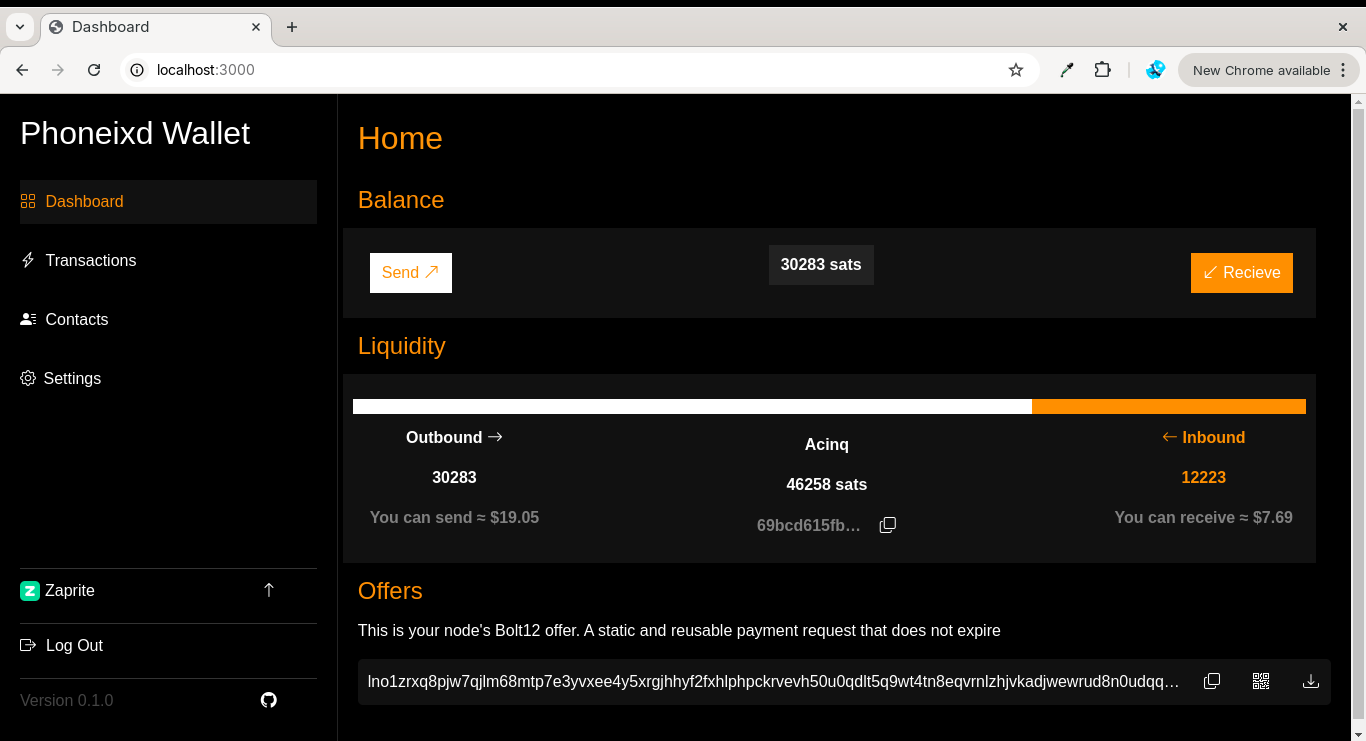
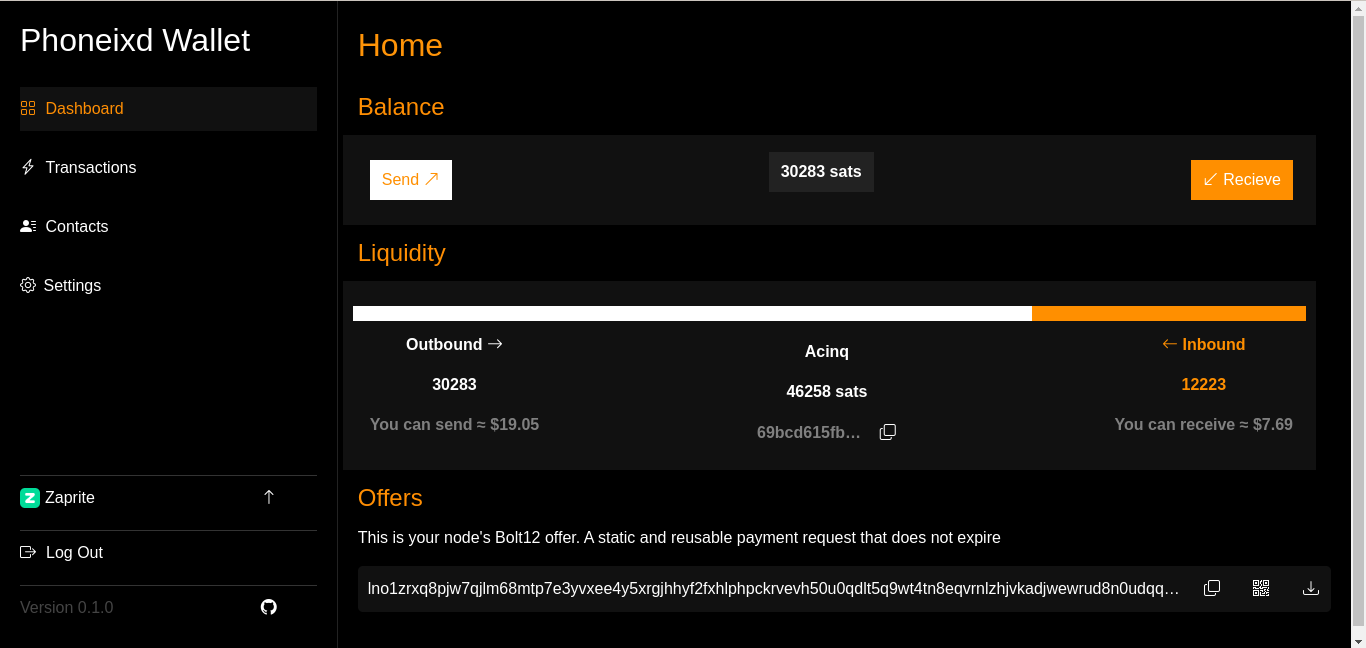
README installation instructions

diff --git a/README.md b/README.md
@@ -1,5 +1,5 @@
 <p align="center">
-  <img src="imgs/dashboard.png" alt="Project Logo" width="100%">
+  <img src="imgs/dashboard.png" alt="Project Logo" width="80%">
 </p>
 
 # Phoenixd Lightning Wallet(StartOS)
